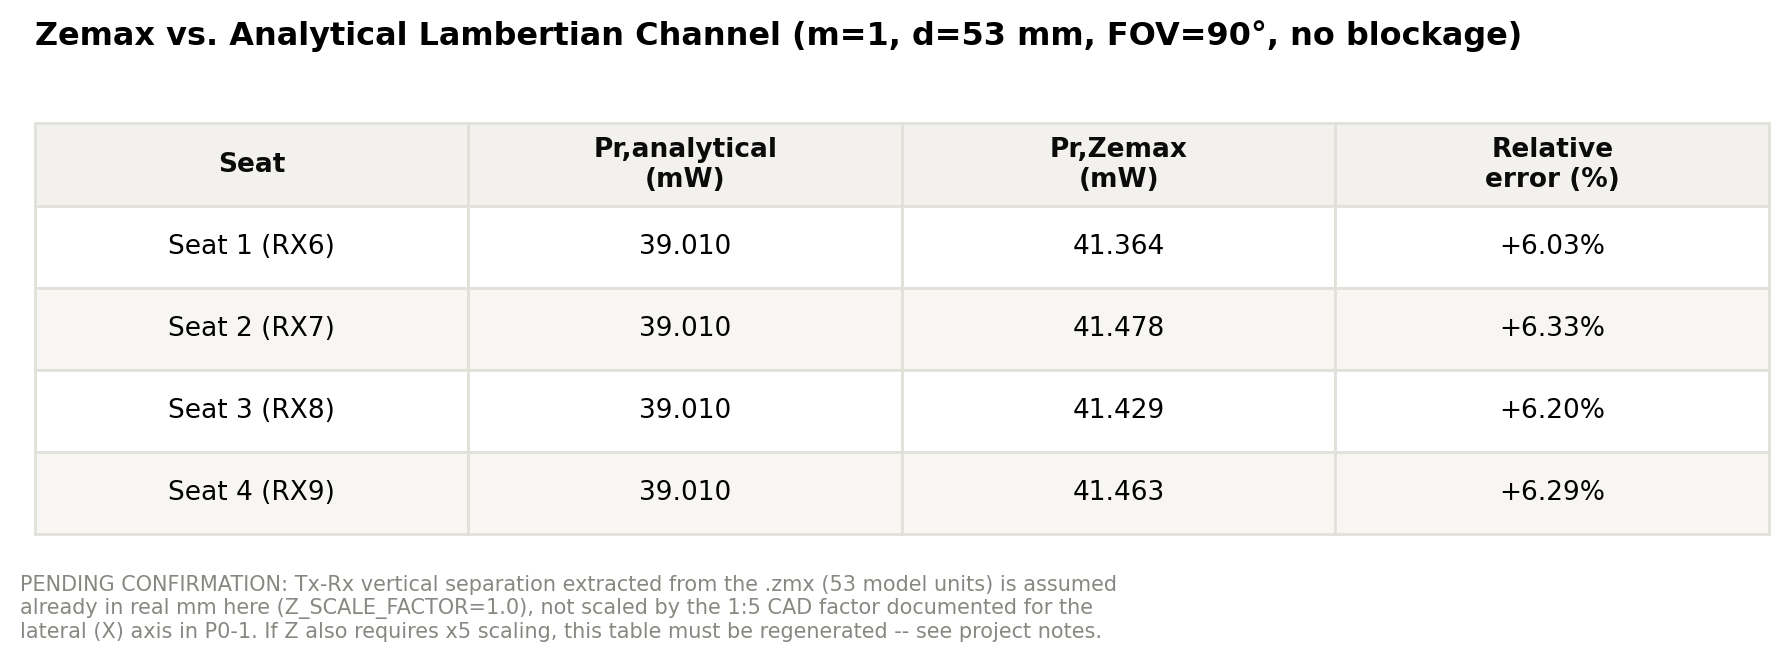
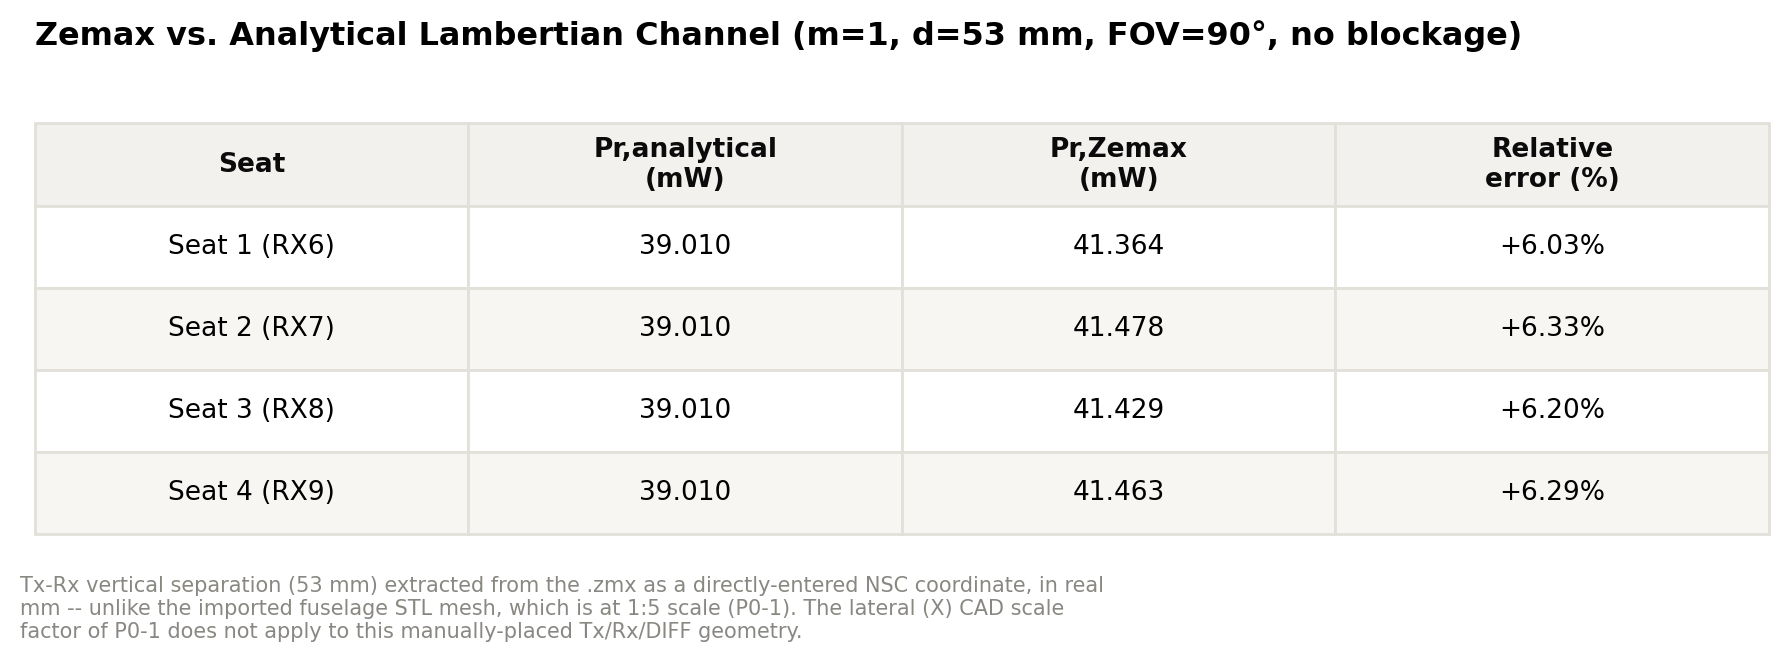
M9: confirmar escala de la geometria de validacion analitica (sin pendiente)
Laura confirmo la causa de la ambiguedad de 25x entre las dos hipotesis
de escala: la malla STL del fuselaje esta importada a 1:5 (P0-1), pero
los objetos NSC puestos a mano (Tx LOS, Rx, DIFF) se posicionaron
directamente en milimetros reales -- son dos sistemas de referencia
distintos en el mismo .zmx. La separacion Tx-Rx de 53 unidades en Z es
mm reales, no requiere el factor 1:5 (que aplica solo a dimensiones
derivadas del mallado STL, como el ancho de asiento en X).

Se actualiza el docstring y la nota de la figura para reflejar esto como
confirmado en vez de pendiente. Los valores no cambian (error +6.0% a
+6.3%, Z_SCALE_FACTOR ya estaba en 1.0 por defecto).

Changed region(s): [[0.0, 0.8459, 0.6149, 0.9668]]

diff --git a/codigo_comun/generar_tabla_validacion_analitica_ingles.py b/codigo_comun/generar_tabla_validacion_analitica_ingles.py
@@ -9,14 +9,16 @@ detalle de como se identifico. Las 4 lamparas LOS (Tx2-5) y sus 4
 receptores propios (Rx6-9) comparten X e Y; solo difieren en Z por 53
 unidades del modelo, con phi=psi=0 (perfectamente enfrentados).
 
-*** PENDIENTE DE CONFIRMAR (ver mensaje adjunto): si esas 53 unidades de
-separacion en Z ya estan en mm reales o necesitan el factor de escala 1:5
-documentado en P0-1 (que aplica, segun la propia nota de P0-1, a la
-proporcion en X -- no necesariamente a Z). Con Z sin escalar (d=53mm) el
-error vs. Zemax es +6.0% a +6.3% en los 4 asientos (consistente, plausible
-como resultado de validacion). Con Z escalado x5 (d=265mm) el error es
-+2550% (fisicamente inconsistente). Este script usa por defecto Z SIN
-escalar; cambiar Z_SCALE_FACTOR a 5.0 si se confirma lo contrario.
+CONFIRMADO (Laura, 2026-09-19): la malla STL del fuselaje esta importada a
+escala 1:5 (subdimensionada), pero los objetos NSC puestos a mano (Tx LOS,
+Rx, DIFF) se posicionaron directamente en milimetros reales -- el "53" de
+la separacion Tx-Rx en Z se tipeo en Zemax como mm reales, no se deriva
+del mallado STL. Son dos sistemas de referencia distintos en el mismo
+archivo: el 1:5 de P0-1 aplica a dimensiones derivadas del STL (p.ej. el
+ancho de asiento en X), no a estas coordenadas NSC explicitas. Por eso
+Z_SCALE_FACTOR=1.0 (sin escalar) es lo correcto aqui, consistente con el
+error de validacion razonable (+6.0% a +6.3%) obtenido con d=53mm real,
+contra el +2550% fisicamente inconsistente que da escalar x5.
 """
 import os, csv, math
 import matplotlib
@@ -33,8 +35,9 @@ os.makedirs(_TABLES_DIR, exist_ok=True)
 os.makedirs(_GRAPHS_DIR, exist_ok=True)
 
 # --- Geometria extraida del .zmx (ver docstring) ---
-D_MODEL_UNITS = 53.0            # separacion Tx-Rx propia, unidades del modelo, eje Z
-Z_SCALE_FACTOR = 1.0            # <-- PENDIENTE DE CONFIRMAR: 1.0 (sin escalar) o 5.0
+D_MODEL_UNITS = 53.0            # separacion Tx-Rx propia, eje Z, en mm reales (coordenada
+                                 # NSC puesta a mano, no derivada del mallado STL a escala 1:5)
+Z_SCALE_FACTOR = 1.0            # confirmado: no aplica el 1:5 del STL a esta coordenada
 D_REAL_M = D_MODEL_UNITS * Z_SCALE_FACTOR / 1000.0
 PHI_DEG = 0.0                   # angulo de irradiancia en el Tx (perfectamente enfrentado)
 PSI_DEG = 0.0                   # angulo de incidencia en el Rx
@@ -95,9 +98,9 @@ for (row_i, col_i), cell in tabla.get_celld().items():
 ax.set_title(f"Zemax vs. Analytical Lambertian Channel (m={int(m)}, d={D_REAL_M*1000:.0f} mm, FOV=90°, no blockage)",
              fontsize=11.5, pad=14, loc="left", weight="bold")
 fig.text(0.01, -0.05,
-          "PENDING CONFIRMATION: Tx-Rx vertical separation extracted from the .zmx (53 model units) is assumed\n"
-          "already in real mm here (Z_SCALE_FACTOR=1.0), not scaled by the 1:5 CAD factor documented for the\n"
-          "lateral (X) axis in P0-1. If Z also requires x5 scaling, this table must be regenerated -- see project notes.",
+          "Tx-Rx vertical separation (53 mm) extracted from the .zmx as a directly-entered NSC coordinate, in real\n"
+          "mm -- unlike the imported fuselage STL mesh, which is at 1:5 scale (P0-1). The lateral (X) CAD scale\n"
+          "factor of P0-1 does not apply to this manually-placed Tx/Rx/DIFF geometry.",
           fontsize=7.5, color="#898781")
 fig.tight_layout()
 fig.savefig(os.path.join(_GRAPHS_DIR, "analytical_validation.png"), bbox_inches="tight")
